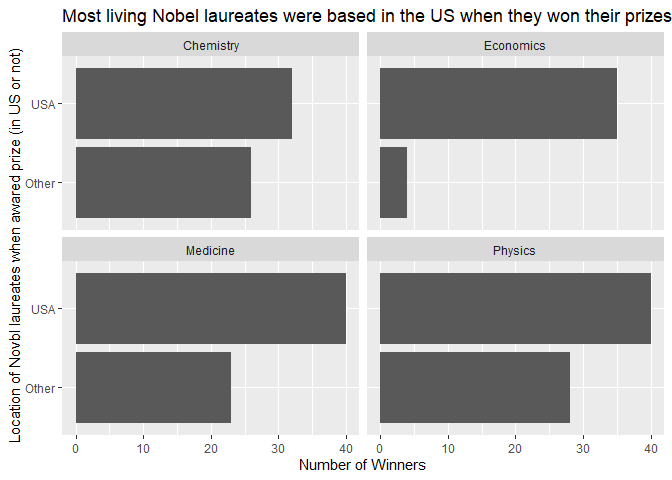
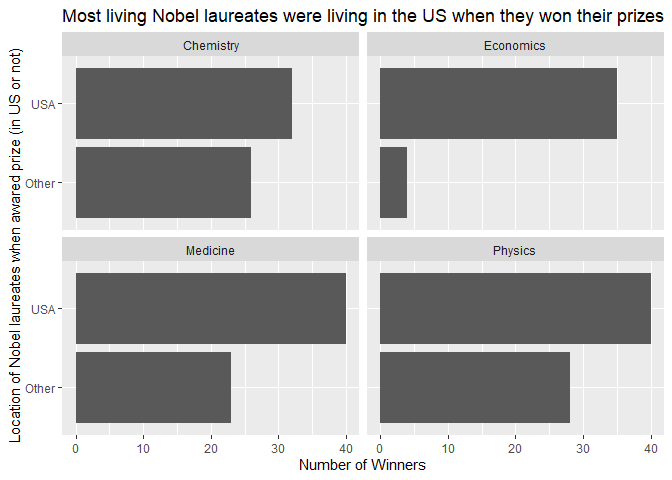
assignment completed

Changed region(s): [[0.4688, 0.0, 1.0, 0.0625], [0.0, 0.6875, 0.0312, 0.7188]]

diff --git a/lab-03.md b/lab-03.md
@@ -61,14 +61,86 @@ nobel_living_science %>%
   geom_bar() +
   coord_flip() +
   facet_wrap(~ category) +
-  labs(title = "Most living Nobel laureates were based in the US when they won their prizes",
-       x = "Location of Novbl laureates when awared prize (in US or not)",
+  labs(title = "Most living Nobel laureates were living in the US when they won their prizes",
+       x = "Location of Nobel laureates when awared prize (in US or not)",
        y = "Number of Winners") 
 ```
 
 ![](lab-03_files/figure-gfm/unnamed-chunk-3-1.png)<!-- --> \### Exercise
 4
 
+``` r
+#Creates new variable called born_country_us to indicate laureate who is US born (or not)
+nobel_living_science <- nobel_living_science %>%
+  mutate(
+    born_country_us = if_else(born_country == "USA", "USA", "Other")
+  )
+
+#How many of the winners are born in the US?
+nobel_living_science %>%
+  group_by(born_country_us) %>%
+  summarize(n = n())
+```
+
+    ## # A tibble: 2 x 2
+    ##   born_country_us     n
+    ##   <chr>           <int>
+    ## 1 Other             123
+    ## 2 USA               105
+
+``` r
+#105 Nobel laureates in the Physics, Medicine, Chemistry, and Economics fields were born in the US (123 outside of US)
+```
+
 ### Exercise 5
 
+``` r
+#Data visualization
+nobel_living_science %>%
+  ggplot(aes(x = country_us,fill = born_country_us)) +
+  geom_bar() +
+  coord_flip() +
+  facet_wrap(~ category) +
+  labs(title = "Most living Nobel laureates were living in the US when they won their prizes",
+       x = "Location of Nobel laureates when awared prize (in US or not)",
+       y = "Number of Winners",
+       caption = "Color represent whether US born (blue) or not (orange")
+```
+
+![](lab-03_files/figure-gfm/unnamed-chunk-5-1.png)<!-- -->
+
+``` r
+#Based on your visualization, do the data appear to support Buzzfeed’s claim?
+#Claim 1: Most living Nobel laureates were based in the US when they won their prizes.
+#Claim 2: But of those US-based Nobel laureates, many were born in other countries.
+#More living laureates were indeed living with the US when they won their prize; however, there were more laureates who were living in the US 
+#when they won their prize were also born US born.
+```
+
 ### Exercise 6
+
+``` r
+nobel_living_science %>%
+  filter(country == "USA", born_country_us == "Other") %>%
+  count(born_country) %>%
+  arrange(desc(n))
+```
+
+    ## # A tibble: 21 x 2
+    ##    born_country       n
+    ##    <chr>          <int>
+    ##  1 Germany            7
+    ##  2 United Kingdom     7
+    ##  3 China              5
+    ##  4 Canada             4
+    ##  5 Japan              3
+    ##  6 Australia          2
+    ##  7 Israel             2
+    ##  8 Norway             2
+    ##  9 Austria            1
+    ## 10 Finland            1
+    ## # ... with 11 more rows
+
+``` r
+#Germany and the UK have the most laureates that won their award in the US, but were born outside of the US.
+```
